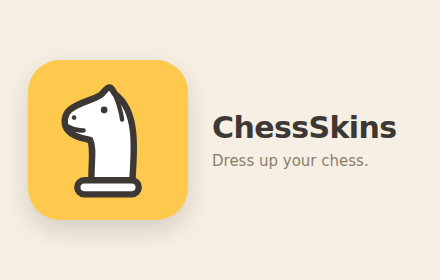
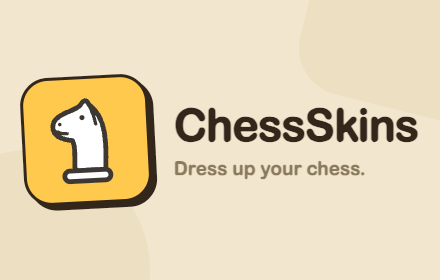
Regenerate brand assets in the Sticker Club style
Marquee and small promo re-drawn on cream paper with the die-cut icon
sticker and ink-bordered knight parade; icons get the die-cut border
(16px uses a simplified knight for legibility). README now shows the
marquee instead of the catalog contact sheet.

diff --git a/README.md b/README.md
@@ -6,7 +6,7 @@
 
 Tired of the same six silhouettes? ChessSkins swaps your pieces for any of **24 themed sets** (plus 26 board themes) — dinos, robots, pirates, 8-bit, rubber duckies, gothic cathedrals and more. Browse the gallery (every skin shown on a real board), click one, and it applies instantly: no page reload, works in games, puzzles, analysis and the board editor, and only you see it. You can even design your own set with Claude or ChatGPT and submit it to the catalog without writing a line of code.
 
-![The ChessSkins catalog](docs/catalog.png)
+![ChessSkins — playful piece skins for lichess & chess.com](store/assets/promo-marquee.png)
 
 ## Install
 
